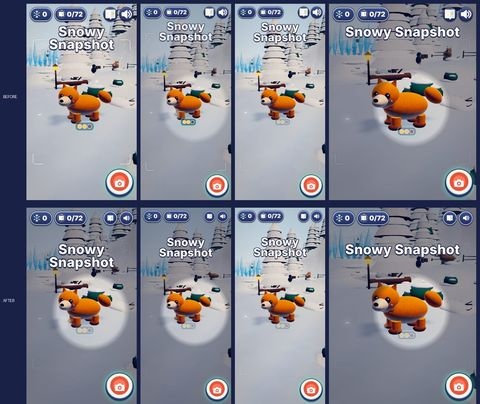
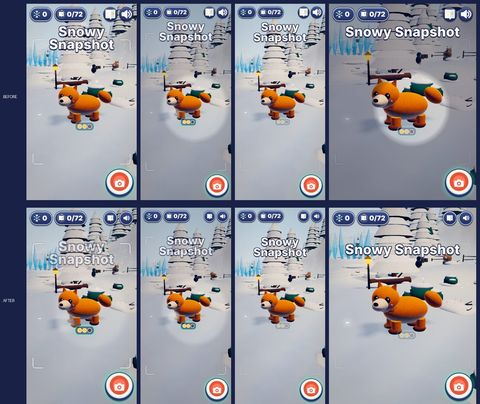
fix(photo-safari): shutter and treat pulse inward from their corner (#299)
The pulse scaled the shutter from its centre, so on small phones its
drawn edge crossed the HUD margin. Anchor the scale to the outer corner
(mirrored for right-to-left) and check the drawn box in the playtest.

Story: photo-safari round 10 (HUD precision)

Claude-Session: https://claude.ai/code/session_01S4KwR7BpvUMfxR8j1VndY1

Changed region(s): [[0.0312, 0.505, 0.5, 1.0], [0.6875, 0.505, 1.0, 1.0]]

diff --git a/prototypes/photo-safari/index.html b/prototypes/photo-safari/index.html
@@ -45,12 +45,14 @@ body{display:flex;align-items:center;justify-content:center}
 /* the shutter: bottom right on the margin; the treat button bottom left with its centre on the same line */
 .shutter{position:absolute;right:var(--sr);bottom:var(--sb);width:calc(var(--u)*176px);height:calc(var(--u)*176px);border-radius:50%;
   background:radial-gradient(circle at 50% 45%,#ff7a5c 0 30%,#e8513a 31% 46%,#fff6e6 47% 58%,#cfe6ff 59% 64%,#2c3a72 65%);box-shadow:0 0 0 calc(var(--u)*4px) var(--ink),0 calc(var(--u)*10px) 0 calc(var(--u)*2px) rgba(26,33,71,.45)}
-[dir=rtl] .shutter{right:auto;left:var(--sl)}
+.shutter{transform-origin:100% 100%} /* pulse and bump grow inward, so the outer edges stay on the margin */
+[dir=rtl] .shutter{right:auto;left:var(--sl);transform-origin:0 100%}
 .shutter svg{position:absolute;inset:28%;width:44%;height:44%;fill:#fff}
 .shutter.ready{animation:pulse 1s ease-in-out infinite;box-shadow:0 0 0 calc(var(--u)*4px) var(--ink),0 0 calc(var(--u)*36px) calc(var(--u)*6px) rgba(92,242,199,.8),0 calc(var(--u)*10px) 0 calc(var(--u)*2px) rgba(26,33,71,.45)}
 .shutter:active{transform:scale(.92)}
 .treat{position:absolute;left:var(--sl);bottom:calc(var(--sb) + var(--u)*32px);width:calc(var(--u)*112px);height:calc(var(--u)*112px);border-radius:50%;padding:calc(var(--u)*18px);transition:opacity .2s,transform .2s}
-[dir=rtl] .treat{left:auto;right:var(--sr)}
+.treat{transform-origin:0 100%}
+[dir=rtl] .treat{left:auto;right:var(--sr);transform-origin:100% 100%}
 .nightb{color:#ffe48a;background:linear-gradient(#3b4a8c,#26306a)!important;animation:nb 1.6s ease-in-out infinite}
 .nightb svg{width:100%;height:100%;fill:none;stroke:currentColor;stroke-width:4}
 @keyframes nb{50%{box-shadow:0 0 calc(var(--u)*28px) #ffe48a}}

diff --git a/prototypes/photo-safari/playtest.js b/prototypes/photo-safari/playtest.js
@@ -185,6 +185,8 @@ const GLARE_MAX = 0.03; // share of near-white pixels a shot may have
     check(eq(gapL, gapR) && clear >= gapL - 1.5, `${w}x${h}: equal gaps in the top row, pills clear of the book (${gapL.toFixed(1)} / ${gapR.toFixed(1)}, clear ${clear.toFixed(1)})`);
     check(eq(r.mute.r, r.sh.r), `${w}x${h}: sound button and shutter on one right margin (${r.mute.r.toFixed(1)}, ${r.sh.r.toFixed(1)})`);
     check(r.vf.t >= r.mute.t + r.mute.h * 2 && r.vf.t + r.vf.h <= r.sh.t && r.vf.l > r.fl.l && r.vf.r > r.mute.r, `${w}x${h}: viewfinder brackets inside the HUD (top ${r.vf.t.toFixed(0)}, bottom ${(r.vf.t + r.vf.h).toFixed(0)}, shutter top ${r.sh.t.toFixed(0)})`);
+    const vis = await ev(page, () => { const r = document.getElementById('shutter').getBoundingClientRect(), m = document.getElementById('mute').getBoundingClientRect(); return [innerWidth - r.right, innerHeight - r.bottom, innerWidth - m.right]; }); // drawn boxes, pulse included
+    check(vis[0] >= vis[2] - 0.5 && vis[1] >= vis[2] - 0.5, `${w}x${h}: the drawn shutter keeps the HUD margin (right ${vis[0].toFixed(1)}, bottom ${vis[1].toFixed(1)}, margin ${vis[2].toFixed(1)})`);
     const pad = await ev(page, () => ['#mute', '#bookB', '#treat'].map((q) => parseFloat(getComputedStyle(document.querySelector(q)).paddingTop)));
     check(pad.every((v) => v > 0), `${w}x${h}: round buttons keep their icon padding (${pad.map((v) => v.toFixed(1)).join(', ')})`);
     await shoot(page, `21-hud-${w}x${h}`);

diff --git a/production/qa/evidence/photo-safari/r10/scorecard.md b/production/qa/evidence/photo-safari/r10/scorecard.md
@@ -19,7 +19,7 @@ shop and Today.
 | At 360 wide the "Snowy Snapshot" title touched the Skip button. | The title started inside row 2, where Skip sits. | The title starts below row 2 (st + 2h + 2g). |
 
 Two new playtest checks guard these fixes: the round buttons keep their icon padding at all four sizes, and the
-title sits below Skip. The playtest now has 80 checks, and all pass.
+title sits below Skip. The playtest now has 84 checks, and all pass. The camera and treat buttons pulse inward from their corner, so the drawn button keeps the HUD margin at every size (4 more checks).
 
 ## Grid (measured, 390x844, u = 0.54)
 
@@ -38,7 +38,7 @@ title sits below Skip. The playtest now has 80 checks, and all pass.
 |---|---|---|
 | colorEntropyBits / dominantColorShare / edgeDensity | 4.69 / 0.215 / 0.230 | 4.72 / 0.216 / 0.239 |
 | 4G first frame (6 runs each, interleaved, beside a parallel playtest) | median 2.12 s | median 2.13 s |
-| full playtest | 75/75 | 80/80 |
+| full playtest | 75/75 | 84/84 |
 
 The load is the same for both builds. These runs shared the machine with a playtest, so both read slower than the
 quiet round 9 runs (1.90 s).
